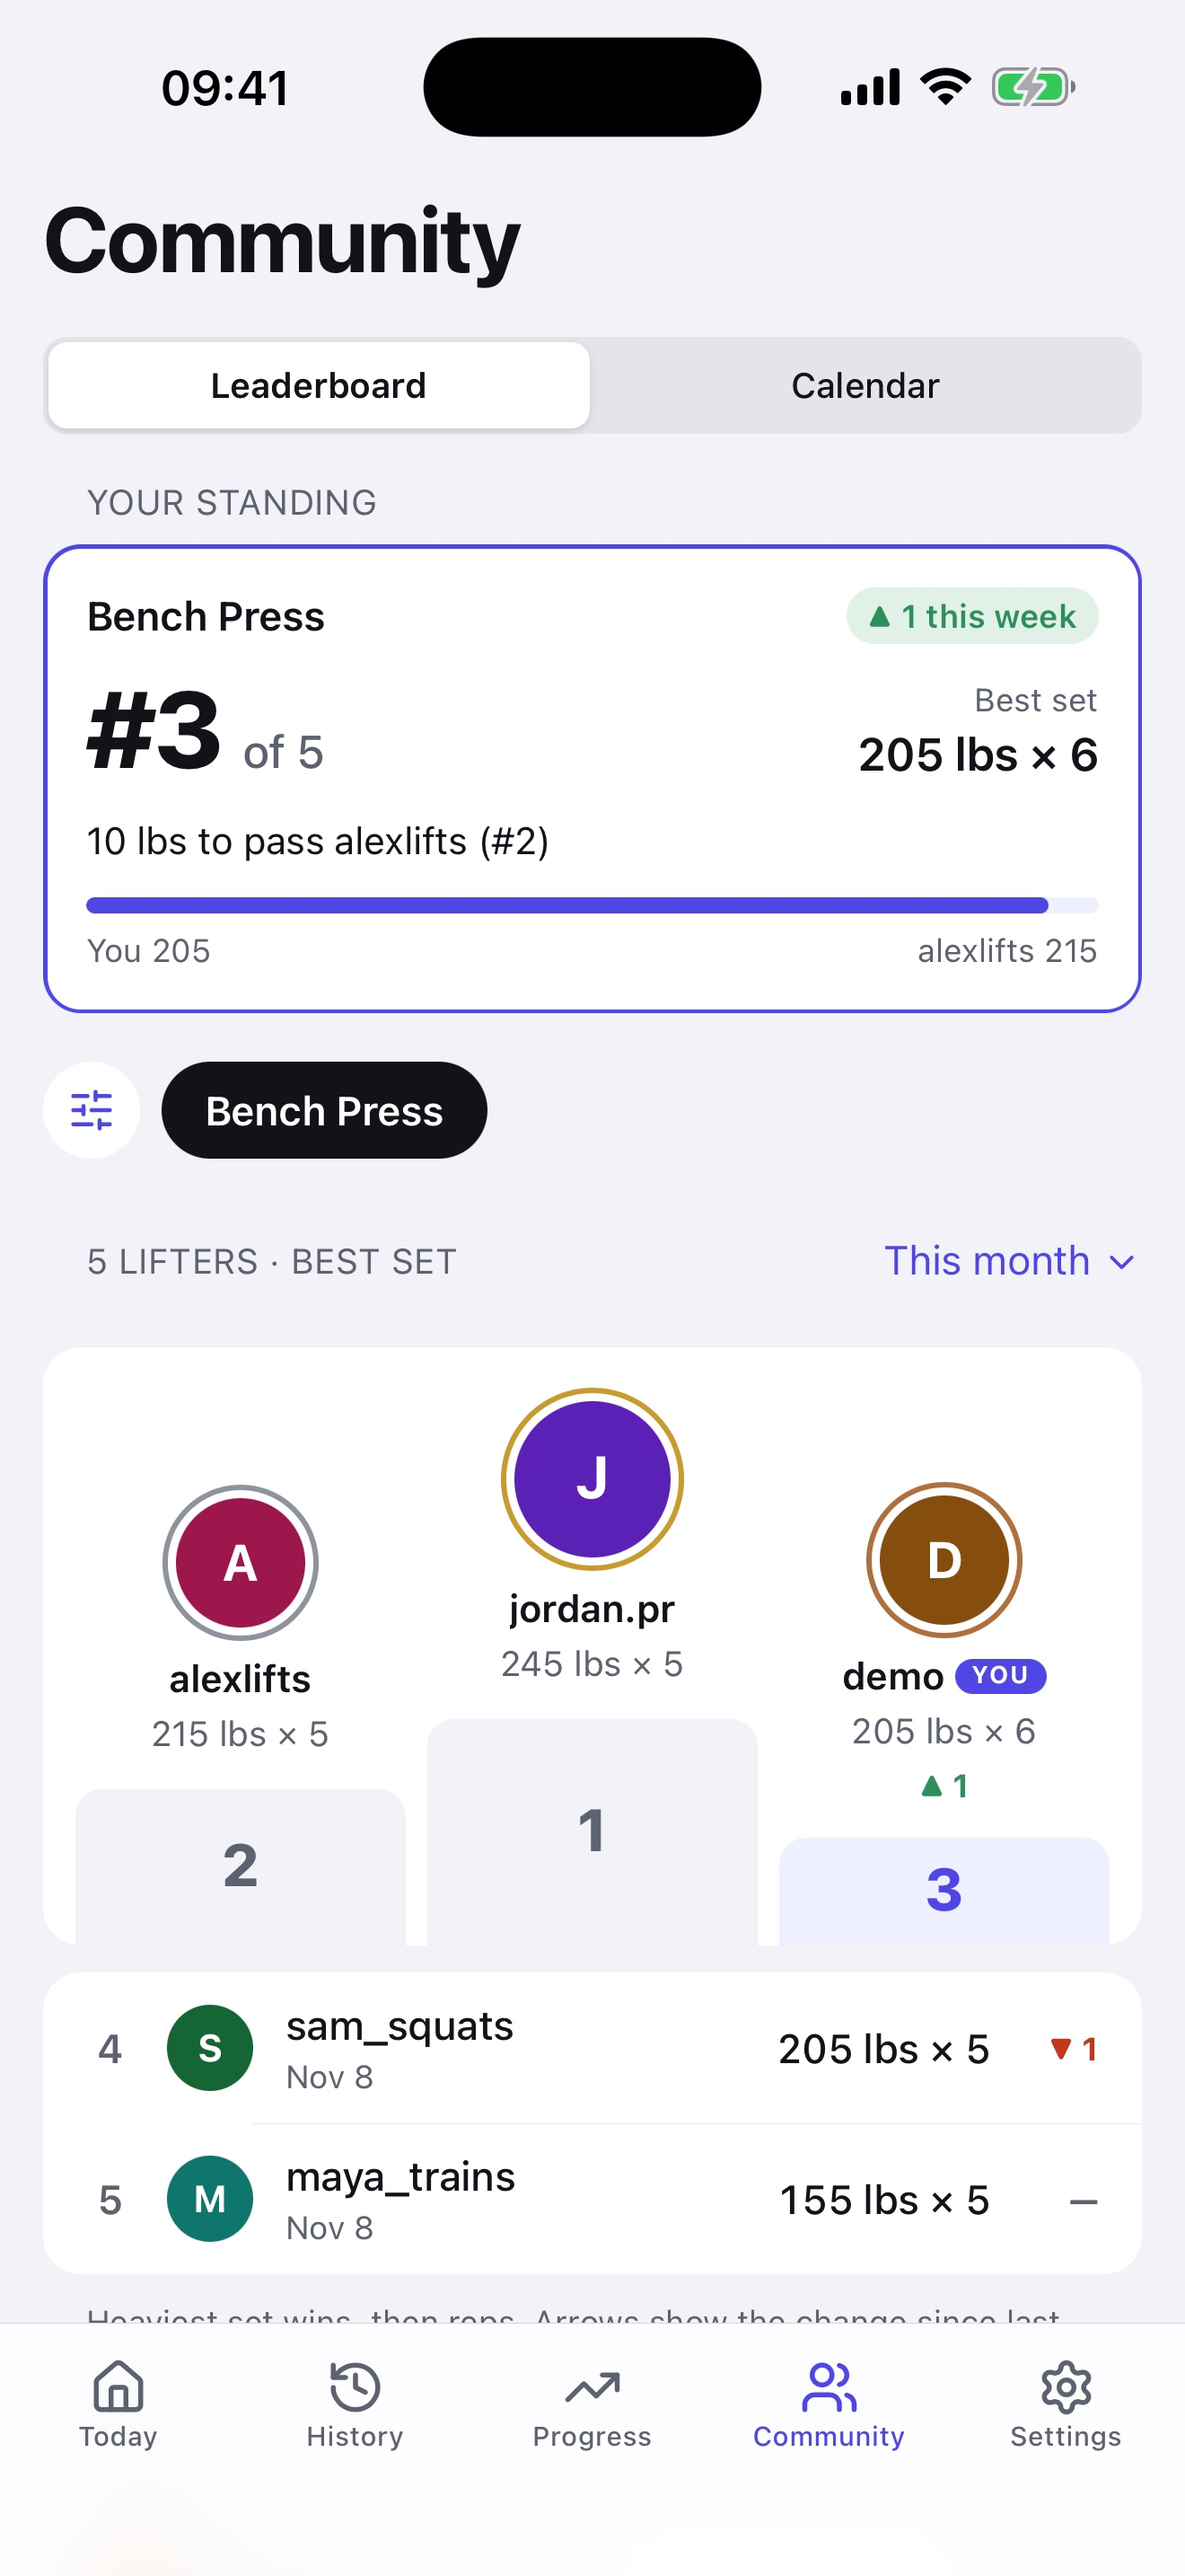
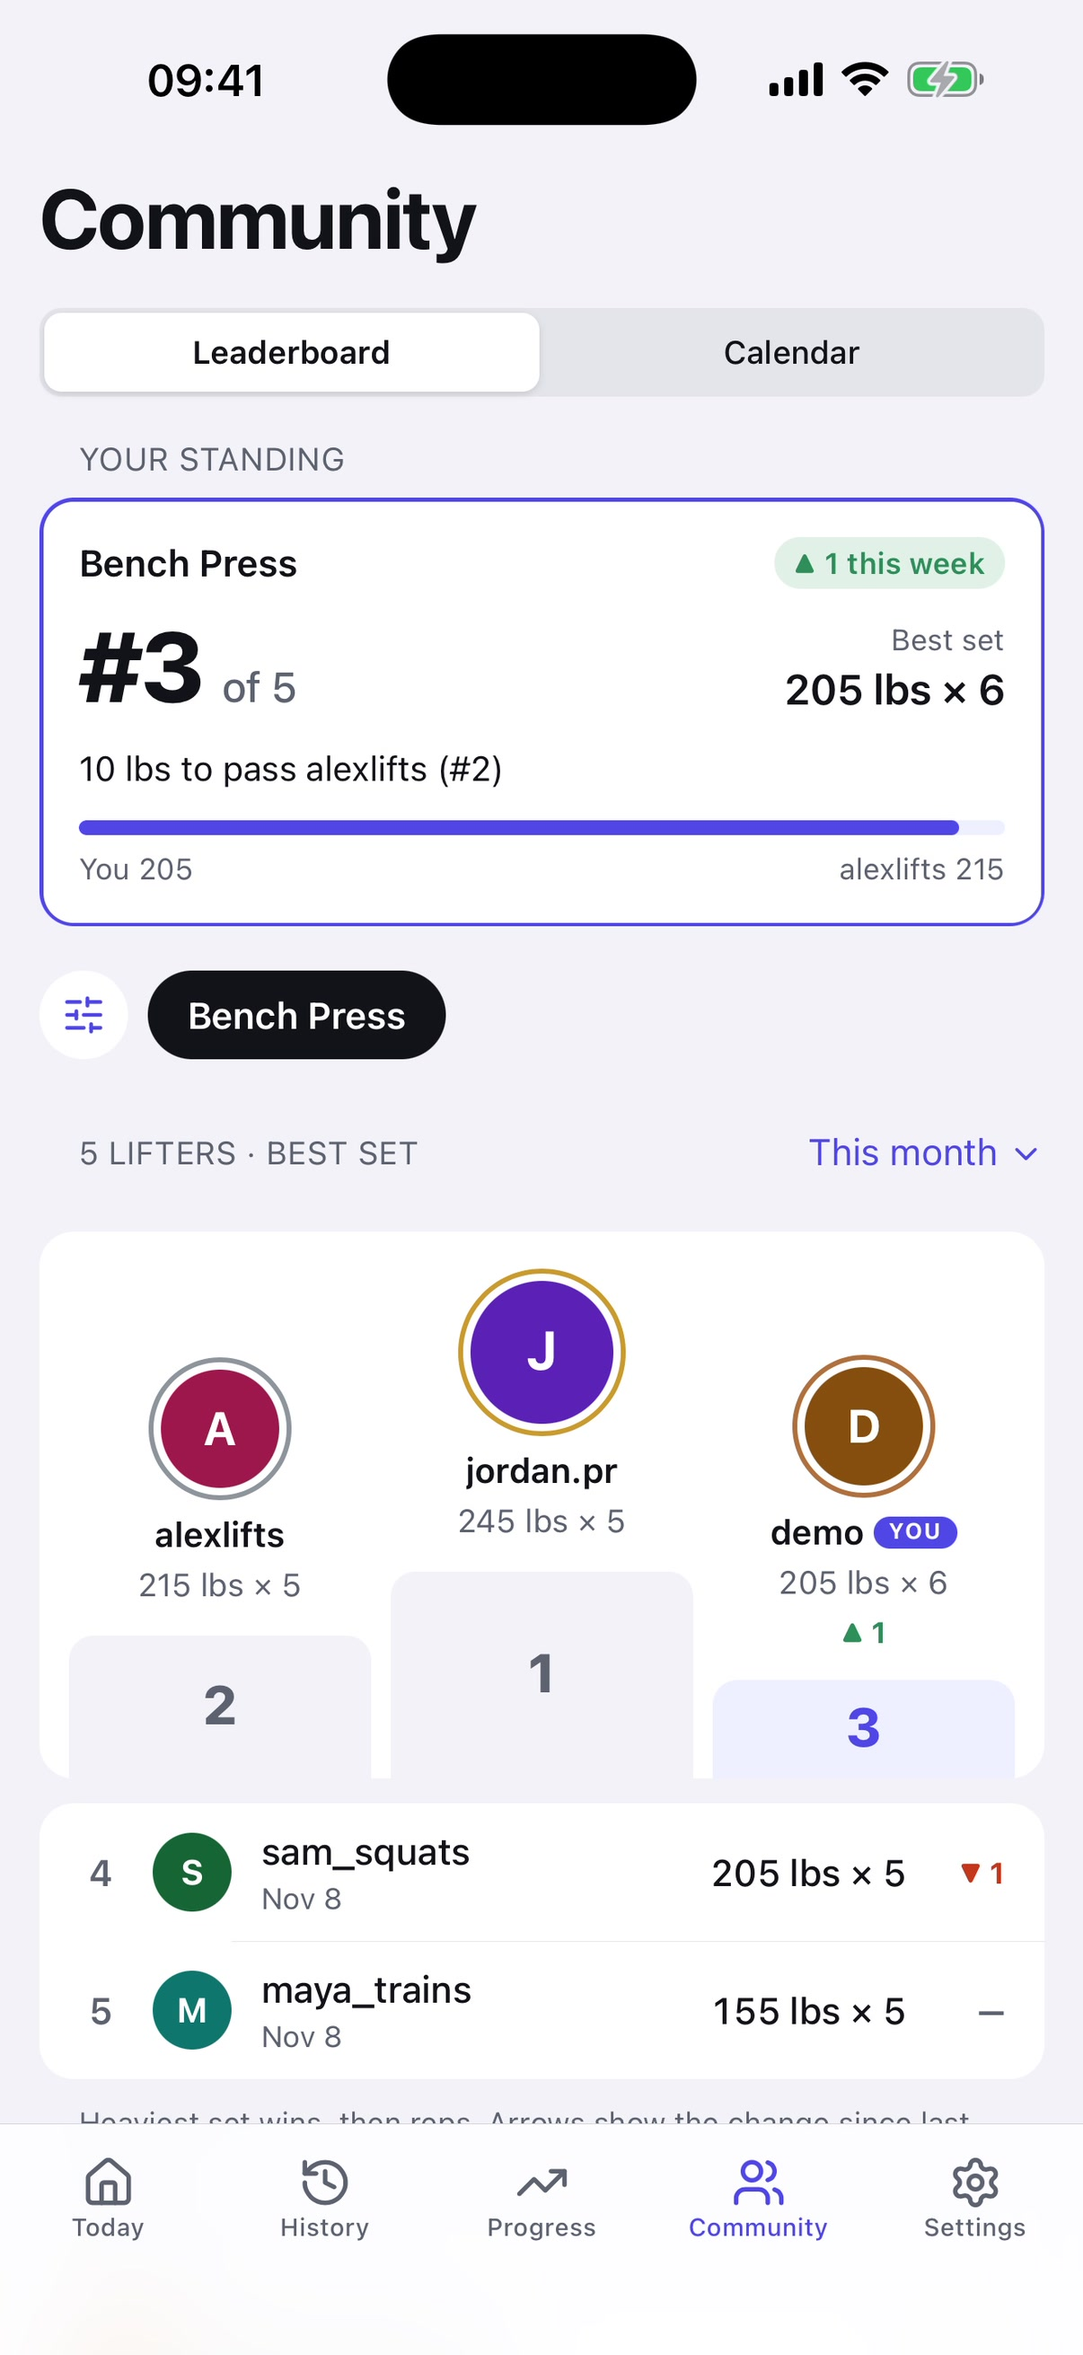
Delete account opens a password confirmation sheet on all screen sizes; resize App Store screenshots to 1206×2622

diff --git a/frontend/src/pages/Settings.jsx b/frontend/src/pages/Settings.jsx
@@ -703,7 +703,7 @@ function PasswordForm({ hasPassword, onDone, onCancel }) {
 	);
 }
 
-function DeleteAccountForm({ hasPassword, onDeleted, onCancel }) {
+function DeleteAccountForm({ hasPassword, onDeleted }) {
 	const [currentPassword, setCurrentPassword] = useState("");
 	const [busy, setBusy] = useState(false);
 	const [error, setError] = useState(null);
@@ -737,8 +737,11 @@ function DeleteAccountForm({ hasPassword, onDeleted, onCancel }) {
 	}
 
 	return (
-		<form className="settings-form" onSubmit={handleSubmit}>
-			<p className="settings-row-hint">
+		<form className="settings-form settings-delete" onSubmit={handleSubmit}>
+			<span className="settings-delete-icon" aria-hidden="true">
+				<Trash2 size={22} strokeWidth={2.2} />
+			</span>
+			<p className="settings-delete-text">
 				This permanently deletes your account and all your workouts, meals,
 				weight and steps. It can't be undone.
 			</p>
@@ -750,19 +753,18 @@ function DeleteAccountForm({ hasPassword, onDeleted, onCancel }) {
 					/>
 				</div>
 			) : (
-				<p className="settings-row-hint">
+				<p className="settings-delete-text">
 					You'll confirm with Apple before it's deleted.
 				</p>
 			)}
 			{error && <p className="settings-error">{error}</p>}
-			<div className="settings-actions">
-				<button className="btn btn-danger" type="submit" disabled={busy}>
-					{busy ? "Deleting..." : "Permanently delete"}
-				</button>
-				<button className="btn" type="button" onClick={onCancel}>
-					Cancel
-				</button>
-			</div>
+			<button
+				className="btn btn-danger settings-delete-btn"
+				type="submit"
+				disabled={busy}
+			>
+				{busy ? "Deleting..." : "Permanently delete"}
+			</button>
 		</form>
 	);
 }
@@ -1422,19 +1424,30 @@ export default function Settings() {
 						onCancel={() => toggleRow("password")}
 					/>
 				</EditRow>
-				<EditRow
-					label="Delete account"
-					icon={Trash2}
-					iconColor="#c4361c"
-					open={openRow === "delete"}
-					onToggle={() => toggleRow("delete")}
-				>
-					<DeleteAccountForm
-						hasPassword={signIn.passwordSet}
-						onDeleted={clearAuth}
-						onCancel={() => toggleRow("delete")}
-					/>
-				</EditRow>
+				<div className="settings-edit">
+					<button
+						type="button"
+						className="settings-row settings-row-button"
+						aria-haspopup="dialog"
+						onClick={() => toggleRow("delete")}
+					>
+						<RowIcon icon={Trash2} color="#c4361c" />
+						<span className="settings-row-main">
+							<span className="settings-row-label">Delete account</span>
+						</span>
+						<span className="settings-chevron" aria-hidden="true">
+							›
+						</span>
+					</button>
+					{openRow === "delete" && (
+						<Modal title="Delete account" onClose={() => toggleRow("delete")}>
+							<DeleteAccountForm
+								hasPassword={signIn.passwordSet}
+								onDeleted={clearAuth}
+							/>
+						</Modal>
+					)}
+				</div>
 			</Group>
 
 			<SecurityGroup />

diff --git a/frontend/src/test/Settings.test.jsx b/frontend/src/test/Settings.test.jsx
@@ -712,6 +712,40 @@ describe("Settings — account rows", () => {
 		expect(await screen.findByText(/incorrect password/i)).toBeInTheDocument();
 		expect(useAuthStore.getState().authenticated).toBe(true);
 	});
+
+	it("Delete account opens a sheet that asks for the password", async () => {
+		setupProfile();
+		renderSettings();
+		await userEvent.click(
+			screen.getByRole("button", { name: /^delete account/i }),
+		);
+
+		const sheet = screen.getByRole("dialog", { name: "Delete account" });
+		expect(within(sheet).getByText(/can't be undone/i)).toBeInTheDocument();
+		expect(
+			within(sheet).getByLabelText(/current password/i),
+		).toBeInTheDocument();
+		expect(
+			within(sheet).getByRole("button", { name: /^permanently delete$/i }),
+		).toBeInTheDocument();
+	});
+
+	it("closing the delete sheet keeps the account", async () => {
+		setupProfile();
+		renderSettings();
+		await userEvent.click(
+			screen.getByRole("button", { name: /^delete account/i }),
+		);
+		const sheet = screen.getByRole("dialog", { name: "Delete account" });
+		await userEvent.click(within(sheet).getByRole("button", { name: "Close" }));
+
+		expect(screen.queryByRole("dialog")).not.toBeInTheDocument();
+		expect(api.post).not.toHaveBeenCalledWith(
+			"/profile/delete-account",
+			expect.anything(),
+		);
+		expect(useAuthStore.getState().authenticated).toBe(true);
+	});
 });
 
 describe("Settings — phone layout", () => {

diff --git a/frontend/src/pages/Settings.css b/frontend/src/pages/Settings.css
@@ -166,6 +166,45 @@
 	gap: 10px;
 }
 
+/* Delete account sheet */
+.settings-delete {
+	gap: 12px;
+}
+
+.settings-delete-icon {
+	align-self: center;
+	display: inline-flex;
+	align-items: center;
+	justify-content: center;
+	width: 48px;
+	height: 48px;
+	border-radius: 50%;
+	background: var(--danger-light);
+	color: var(--danger);
+}
+
+.settings-delete-text {
+	margin: 0;
+	text-align: center;
+	font-size: var(--fs-sm);
+	line-height: 1.5;
+	color: var(--muted);
+}
+
+.settings-delete .settings-fields {
+	grid-template-columns: 1fr;
+}
+
+.settings-delete .settings-delete-btn,
+.settings-delete .settings-delete-btn:hover:not(:disabled) {
+	width: 100%;
+	min-height: 44px;
+	justify-content: center;
+	background: var(--danger);
+	border-color: var(--danger);
+	color: white;
+}
+
 .settings-fields {
 	display: grid;
 	grid-template-columns: repeat(3, minmax(0, 1fr));
